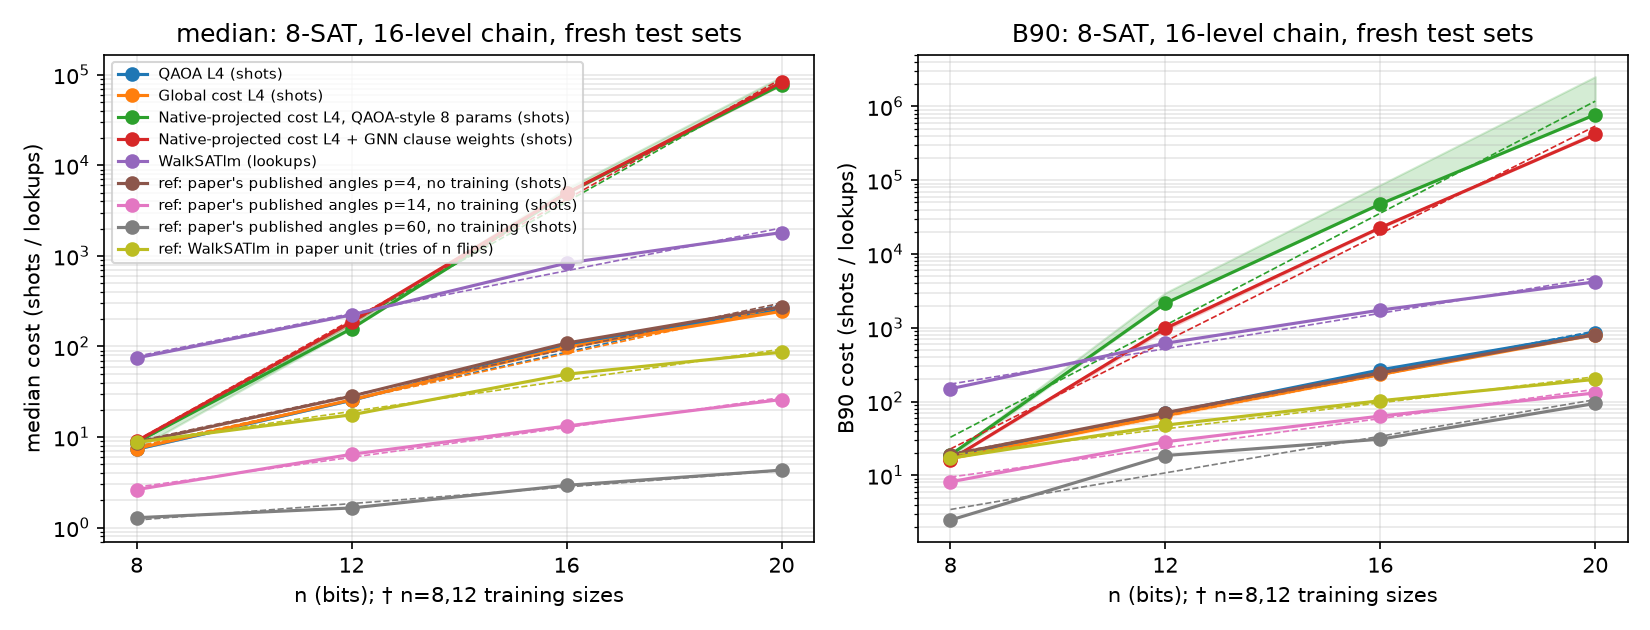
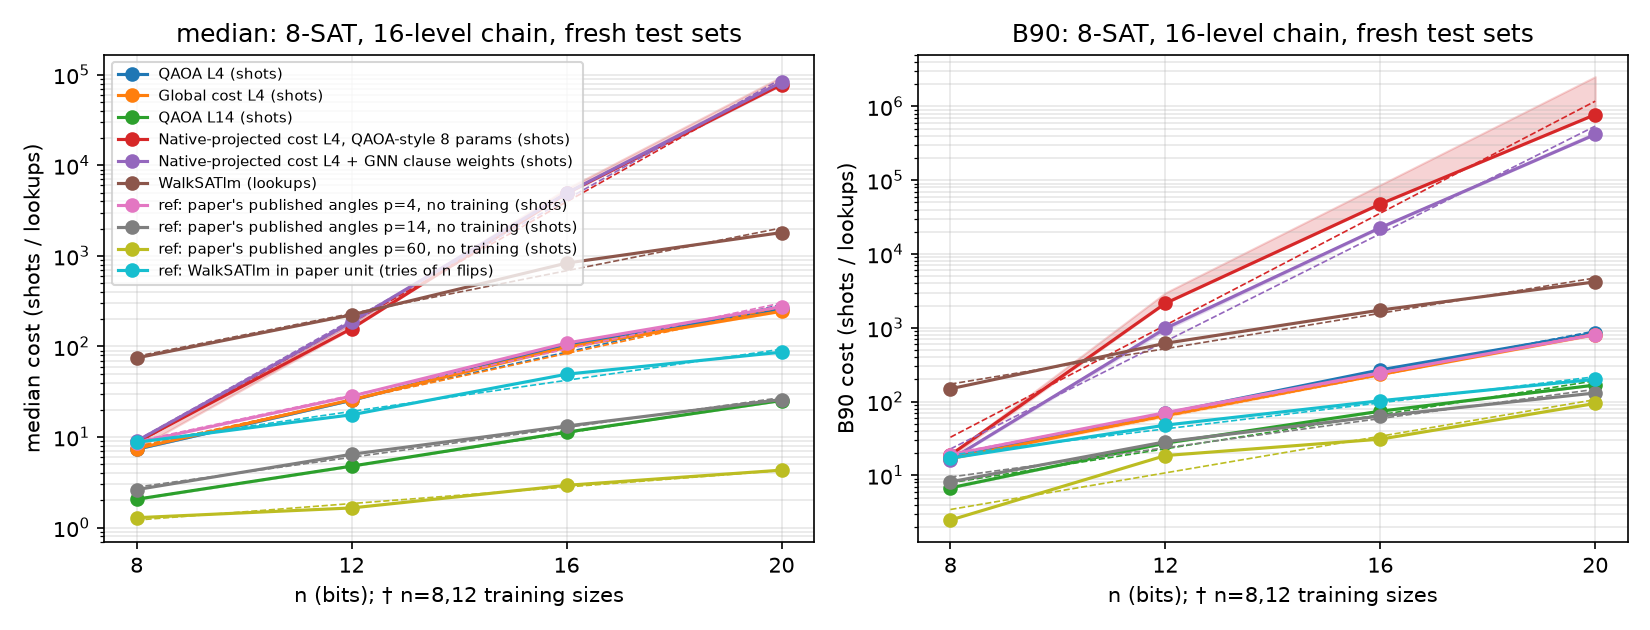
8-SAT L=14 QAOA (3 seeds) complete; launch L=14 global cost (3 seeds)

diff --git a/oct_explore/clean16_8sat/gcost.py b/oct_explore/clean16_8sat/gcost.py
@@ -64,10 +64,14 @@ def pairs(n, cl):
     return np.concatenate(J), np.concatenate(X).astype(np.int32)
 
 MPAD = lambda n: int(np.ceil(CM.R * n + 8 * np.sqrt(CM.R * n)))   # fixed clause padding per n (Poisson +8 sigma), so GNN pooling sees the same M everywhere
+GCACHE = "/tmp/clean16_8sat_gcache"; os.makedirs(GCACHE, exist_ok=True)
 def build(n, insts, rng=None):
     """-> dict of numpy arrays: graph (clauses zero-padded to the set's max m), violated-string pair lists CJ/XS (padded with dump index 2^n),
     permuted energy E, success mask. Only block assignment is supported here (G16_full_w recipe)."""
     assert a.assign == "block"
+    cdir = f"{GCACHE}/n{n}_c{len(insts)}_s{insts[0]['seed']}" if (n <= 12 and len(insts) >= 100) else None
+    if cdir and os.path.exists(f"{cdir}/DONE"):
+        D = {k: np.load(f"{cdir}/{k}.npy", mmap_mode="r") for k in ("Ip", "In", "fv", "deg", "CJ", "XS", "E", "S")}; D["nm"] = CM.NM; return D
     gs, PJ, PX, EE = [], [], [], []
     for ins in insts:
         G, V, Bb, m, cl = graph(n, ins["seed"]); gs.append(G); j, x = pairs(n, cl); PJ.append(j); PX.append(x); EE.append(ins["E"].astype(np.float32))
@@ -77,6 +81,12 @@ def build(n, insts, rng=None):
     D = {k: np.stack([padm(g[k]) if k in ("Ip", "In") else g[k] for g in gs]) for k in gs[0]}
     D["CJ"] = np.stack([np.pad(j, (0, P - len(j))) for j in PJ]); D["XS"] = np.stack([np.pad(x, (0, P - len(x)), constant_values=1 << n) for x in PX])
     D["E"] = np.stack(EE); D["S"] = (D["E"] == 0).astype(np.float32); D["nm"] = CM.NM
+    if cdir:
+        os.makedirs(cdir, exist_ok=True)
+        for k in ("Ip", "In", "fv", "deg", "CJ", "XS", "E", "S"):
+            if not os.path.exists(f"{cdir}/{k}.npy"): np.save(f"{cdir}/{k}.npy", D[k])
+        open(f"{cdir}/DONE", "w").write("ok")
+        D = {k: np.load(f"{cdir}/{k}.npy", mmap_mode="r") for k in ("Ip", "In", "fv", "deg", "CJ", "XS", "E", "S")}; D["nm"] = CM.NM
     return D
 
 XB = {}; MASK = {}
@@ -193,7 +203,8 @@ res = {"args": vars(a), "hist": HIST, "best_it": BEST["it"], "val_S": BEST["S"],
 thb = jnp.asarray(BEST["x"])
 for n in a.test:
     ins = sim.instances(n, CM.NTEST, TEB); t = time.time(); ch = 25 if n <= 12 else (4 if n <= 16 else 1); outs = []
-    for s0 in range(0, len(ins), 10): outs.append(evaluate(thb, build(n, ins[s0:s0 + 10]), n, ch))
+    step = 2 if n == 20 else 10
+    for s0 in range(0, len(ins), step): outs.append(evaluate(thb, build(n, ins[s0:s0 + step]), n, ch))
     pr, bl, gl = (np.concatenate([o[i] for o in outs]) for i in range(3))
     res["test"][str(n)] = NS.summ(pr) | {"p": pr.tolist(), "b_mean": bl.mean(0).tolist(), "b_std": bl.std(0).tolist(), "g_mean": gl.mean(0).tolist()}; res["random"][str(n)] = NS.rand_stats(ins, n)
     log(f"TEST n={n}: {res['test'][str(n)]['median_inv_p']:.2f}/{res['test'][str(n)]['B90_inv_p']:.2f} b {np.round(bl.mean(0), 3)} g {np.round(gl.mean(0), 3)} ({time.time()-t:.0f}s)")

diff --git a/oct_explore/clean16_8sat/report.py b/oct_explore/clean16_8sat/report.py
@@ -15,7 +15,7 @@ def load(pref):
         if "val" not in T:   # gcost (gnnw): val n=12 (200) summary of the early-stopped checkpoint used for testing
             h = dict((it, v) for it, v in J["hist"])[J["best_it"]]; out[s]["valmb"] = (h["median_inv_p"], h["B90_inv_p"])
     return out
-M = {"QAOA L4 (shots)": load("Q"), "Global cost L4 (shots)": load("G"), "Native-projected cost L4, QAOA-style 8 params (shots)": load("QC"), "Native-projected cost L4 + GNN clause weights (shots)": load("GC")}
+M = {"QAOA L4 (shots)": load("Q"), "Global cost L4 (shots)": load("G"), "QAOA L14 (shots)": load("Q14"), "Global cost L14 (shots)": load("G14"), "Native-projected cost L4, QAOA-style 8 params (shots)": load("QC"), "Native-projected cost L4 + GNN clause weights (shots)": load("GC")}
 W = {}
 for n in NS_:
     f = f"{CM.RES}/W_n{n}.json"
@@ -57,7 +57,7 @@ for name, Wd in EXTRA:
     if len(Wd) == 4: fits[name] = ({q: fit(NS_, [mb(Wd[str(n)])[q] for n in NS_]) for q in (0, 1)}, boot(Wd), None)
 L = ["# CLEAN controlled scaling table: 16-level cavity chain, **8-SAT** (fresh data)", "",
      f"_Auto-generated by `oct_explore/clean16_8sat/report.py`. Status: see bottom._", "",
-     "**Setup.** 16-level cavities (4 bits each), chain of K=n/4 cavities (n=8→2, 12→3, 16→4, 20→5). L=4 for all quantum methods. "
+     "**Setup.** 16-level cavities (4 bits each), chain of K=n/4 cavities (n=8→2, 12→3, 16→4, 20→5). L=4 and L=14 quantum methods. "
      "Random 8-SAT in the PAPER's ensemble (PRX Quantum 5, 030348, Def. 1 / Table 1): m ~ Poisson(176.54 n), 8 literals drawn with replacement, satisfiable only, no unique-solution filter "
      "(clauses at n=8/12/16/20 ≈ 1412/2118/2825/3531). Cost phase normalised by nm=1/176.54. NEW bases: train 61e9, test 62e9, val 63e9 (never used before). "
      "Native ckpt_110 itself is NOT included (k=4 hard-coded, see notes); the two 'Native-projected' rows are the k=8 native baselines (same chain gate structure). Train n=8+12; validation n=12 (200 formulas, seed selection only); test n=8,12,16,20, 100 unseen formulas each. "

diff --git a/oct_explore/clean16_8sat/qaoa.py b/oct_explore/clean16_8sat/qaoa.py
@@ -62,8 +62,26 @@ def f(x):
             v, gg = VG[n](x, PE[s:s + CH], S[s:s + CH]); w = PE[s:s + CH].shape[0] / PE.shape[0] / len(data); tot += float(v) * w; g = g + np.asarray(gg, np.float64) * w
     return tot, g
 rng = np.random.default_rng(7 + 1000 * a.seed)  # clean16: training seed
-cands = [np.stack([np.linspace(0.8, 0.1, L), np.linspace(0.1, 0.8, L)], 1).reshape(-1) * s for s in (0.5, 1, 2, 4)]
-cands += [np.stack([rng.uniform(0, np.pi, L), rng.uniform(0, 3, L)], 1).reshape(-1) for _ in range(a.nstart - 4)]
+if L == 14 and a.proj == "full":
+    # 8-SAT L=14: gamma in CM.NM=1/176.54 units has opposite sign to beta and scale ~ -15..-85.
+    # Seed 0 includes a warm-start from the paper's published p=14 angles (P14_x0.json); seeds 1,2 are purely from scratch.
+    cands = []
+    p14f = f"{CM.RES}/P14_x0.json"
+    if a.seed == 0 and os.path.exists(p14f):
+        xp = np.array(json.load(open(p14f))["x"], dtype=np.float64)
+        cands.append(xp)
+        cands.append(xp * rng.uniform(0.9, 1.1, size=xp.shape))
+    for _ in range(3):
+        b0, b1 = rng.uniform(0.5, 0.75), rng.uniform(0.12, 0.32)
+        g0, g1 = rng.uniform(-32.0, -18.0), rng.uniform(-88.0, -62.0)
+        cands.append(np.stack([np.linspace(b0, b1, L), np.linspace(g0, g1, L)], 1).reshape(-1))
+    cands.append(np.tile([0.01, -0.5 * 0.01 / CM.NM], L) * rng.uniform(0.8, 1.2, 2 * L))  # paper Sec 4.5 small-angle init
+    while len(cands) < a.nstart:
+        cands.append(np.stack([rng.uniform(0.1, 0.8, L), rng.uniform(-85.0, -15.0, L)], 1).reshape(-1))
+    cands = cands[:a.nstart]
+else:
+    cands = [np.stack([np.linspace(0.8, 0.1, L), np.linspace(0.1, 0.8, L)], 1).reshape(-1) * s for s in (0.5, 1, 2, 4)]
+    cands += [np.stack([rng.uniform(0, np.pi, L), rng.uniform(0, 3, L)], 1).reshape(-1) for _ in range(a.nstart - 4)]
 q6 = "/nonexistent"  # clean16: no warm start from old results
 if L == 4 and os.path.exists(q6): cands.append(np.array(json.load(open(q6))["best"]["x"]))
 if a.x0: cands = [np.array(json.load(open(f))["x"]) for f in a.x0.split(",")]

diff --git a/oct_explore/results/CLEAN_SCALING_16LEVEL_8SAT.md b/oct_explore/results/CLEAN_SCALING_16LEVEL_8SAT.md
@@ -2,7 +2,7 @@
 
 _Auto-generated by `oct_explore/clean16_8sat/report.py`. Status: see bottom._
 
-**Setup.** 16-level cavities (4 bits each), chain of K=n/4 cavities (n=8→2, 12→3, 16→4, 20→5). L=4 for all quantum methods. Random 8-SAT in the PAPER's ensemble (PRX Quantum 5, 030348, Def. 1 / Table 1): m ~ Poisson(176.54 n), 8 literals drawn with replacement, satisfiable only, no unique-solution filter (clauses at n=8/12/16/20 ≈ 1412/2118/2825/3531). Cost phase normalised by nm=1/176.54. NEW bases: train 61e9, test 62e9, val 63e9 (never used before). Native ckpt_110 itself is NOT included (k=4 hard-coded, see notes); the two 'Native-projected' rows are the k=8 native baselines (same chain gate structure). Train n=8+12; validation n=12 (200 formulas, seed selection only); test n=8,12,16,20, 100 unseen formulas each. Cost = exact 1/p from the simulated state (p clipped at 1e-12); median and B90 over the 100 test formulas. Quantum = shots, WalkSATlm = lookups (fresh starts + flips). n=8 and n=12 are **training sizes** (marked †) but their test formulas are unseen.
+**Setup.** 16-level cavities (4 bits each), chain of K=n/4 cavities (n=8→2, 12→3, 16→4, 20→5). L=4 and L=14 quantum methods. Random 8-SAT in the PAPER's ensemble (PRX Quantum 5, 030348, Def. 1 / Table 1): m ~ Poisson(176.54 n), 8 literals drawn with replacement, satisfiable only, no unique-solution filter (clauses at n=8/12/16/20 ≈ 1412/2118/2825/3531). Cost phase normalised by nm=1/176.54. NEW bases: train 61e9, test 62e9, val 63e9 (never used before). Native ckpt_110 itself is NOT included (k=4 hard-coded, see notes); the two 'Native-projected' rows are the k=8 native baselines (same chain gate structure). Train n=8+12; validation n=12 (200 formulas, seed selection only); test n=8,12,16,20, 100 unseen formulas each. Cost = exact 1/p from the simulated state (p clipped at 1e-12); median and B90 over the 100 test formulas. Quantum = shots, WalkSATlm = lookups (fresh starts + flips). n=8 and n=12 are **training sizes** (marked †) but their test formulas are unseen.
 
 Cells: winner (best validation score S=(ln med+ln B90)/2 on val n=12) value, with [min–max over the 3 training seeds].
 
@@ -10,6 +10,7 @@ Cells: winner (best validation score S=(ln med+ln B90)/2 on val n=12) value, wit
 |---|---|---|---|---|
 | QAOA L4 (shots) | **7.33** [7.33–7.33] | **25.5** [25.5–25.5] | **105** [105–105] | **257** [257–257] |
 | Global cost L4 (shots) | **7.46** [7.41–7.46] | **25.8** [25.6–25.8] | **98.1** [97.3–98.1] | **245** [244–250] |
+| QAOA L14 (shots) | **2.06** [2.05–2.06] | **4.77** [4.76–4.77] | **11.3** [11.3–11.4] | **25.3** [25.3–25.3] |
 | Native-projected cost L4, QAOA-style 8 params (shots) | **8.78** [7.44–8.78] | **158** [158–180] | **4.9e+03** [4.9e+03–5.53e+03] | **7.79e+04** [7.79e+04–9.54e+04] |
 | Native-projected cost L4 + GNN clause weights (shots) | **9.04** [8.98–9.04] | **186** [178–195] | **4.94e+03** [4.84e+03–5e+03] | **8.28e+04** [7.7e+04–8.28e+04] |
 | WalkSATlm (lookups) | **74.8** | **223** | **833** | **1.81e+03** |
@@ -22,6 +23,7 @@ Cells: winner (best validation score S=(ln med+ln B90)/2 on val n=12) value, wit
 |---|---|---|---|---|
 | QAOA L4 (shots) | **17.7** [17.7–17.7] | **68.9** [68.9–68.9] | **269** [269–269] | **850** [850–850] |
 | Global cost L4 (shots) | **16.9** [16.7–17.3] | **64.8** [62.3–65.1] | **233** [233–242] | **809** [796–825] |
+| QAOA L14 (shots) | **6.77** [6.75–6.77] | **27.4** [27.2–27.4] | **74** [73.8–74] | **167** [167–171] |
 | Native-projected cost L4, QAOA-style 8 params (shots) | **18.9** [17.8–18.9] | **2.14e+03** [2.14e+03–2.98e+03] | **4.76e+04** [4.76e+04–8.66e+04] | **7.75e+05** [7.75e+05–2.53e+06] |
 | Native-projected cost L4 + GNN clause weights (shots) | **16.3** [16.2–16.9] | **982** [932–1.03e+03] | **2.28e+04** [2.24e+04–2.3e+04] | **4.17e+05** [4.17e+05–4.45e+05] |
 | WalkSATlm (lookups) | **149** | **616** | **1.74e+03** | **4.19e+03** |
@@ -38,25 +40,28 @@ Cells: winner (best validation score S=(ln med+ln B90)/2 on val n=12) value, wit
 | QAOA L4 (shots) | B90 | **1.383** | [1.338, 1.426] | 1.383–1.383 | 0.468 | 1.38 |
 | Global cost L4 (shots) | median | **1.343** | [1.327, 1.374] | 1.343–1.346 | 0.426 | 0.743 |
 | Global cost L4 (shots) | B90 | **1.380** | [1.332, 1.414] | 1.378–1.384 | 0.465 | 1.31 |
-| Native-projected cost L4, QAOA-style 8 params (shots) | median | **2.155** | [2.079, 2.280] | 2.155–2.215 | 1.108 | 0.0183 |
-| Native-projected cost L4, QAOA-style 8 params (shots) | B90 | **2.397** | [2.293, 2.635] | 2.397–2.648 | 1.261 | 0.0301 |
-| Native-projected cost L4 + GNN clause weights (shots) | median | **2.151** | [2.079, 2.220] | 2.142–2.151 | 1.105 | 0.02 |
-| Native-projected cost L4 + GNN clause weights (shots) | B90 | **2.315** | [2.225, 2.528] | 2.315–2.327 | 1.211 | 0.0276 |
-| WalkSATlm (lookups) | median | **1.313** | [1.286, 1.333] | — | 0.392 | 8.84 |
-| WalkSATlm (lookups) | B90 | **1.318** | [1.289, 1.345] | — | 0.398 | 18.9 |
-| ref: paper's published angles p=4, no training (shots) | median | **1.341** | [1.322, 1.366] | — | 0.423 | 0.858 |
-| ref: paper's published angles p=4, no training (shots) | B90 | **1.366** | [1.334, 1.405] | — | 0.450 | 1.61 |
-| ref: paper's published angles p=14, no training (shots) | median | **1.209** | [1.185, 1.234] | — | 0.274 | 0.612 |
-| ref: paper's published angles p=14, no training (shots) | B90 | **1.256** | [1.193, 1.371] | — | 0.329 | 1.53 |
-| ref: paper's published angles p=60, no training (shots) | median | **1.111** | [1.077, 1.129] | — | 0.152 | 0.522 |
-| ref: paper's published angles p=60, no training (shots) | B90 | **1.331** | [1.223, 1.424] | — | 0.412 | 0.35 |
-| ref: WalkSATlm in paper unit (tries of n flips) | median | **1.219** | [1.193, 1.237] | — | 0.285 | 1.79 |
-| ref: WalkSATlm in paper unit (tries of n flips) | B90 | **1.226** | [1.200, 1.250] | — | 0.294 | 3.7 |
+| QAOA L14 (shots) | median | **1.233** | [1.214, 1.269] | 1.233–1.234 | 0.303 | 0.386 |
+| QAOA L14 (shots) | B90 | **1.304** | [1.218, 1.396] | 1.304–1.306 | 0.383 | 0.947 |
+| Native-projected cost L4, QAOA-style 8 params (shots) | median | **2.155** | [2.078, 2.275] | 2.155–2.215 | 1.108 | 0.0183 |
+| Native-projected cost L4, QAOA-style 8 params (shots) | B90 | **2.397** | [2.299, 2.641] | 2.397–2.648 | 1.261 | 0.0301 |
+| Native-projected cost L4 + GNN clause weights (shots) | median | **2.151** | [2.079, 2.219] | 2.142–2.151 | 1.105 | 0.02 |
+| Native-projected cost L4 + GNN clause weights (shots) | B90 | **2.315** | [2.221, 2.524] | 2.315–2.327 | 1.211 | 0.0276 |
+| WalkSATlm (lookups) | median | **1.313** | [1.286, 1.334] | — | 0.392 | 8.84 |
+| WalkSATlm (lookups) | B90 | **1.318** | [1.290, 1.347] | — | 0.398 | 18.9 |
+| ref: paper's published angles p=4, no training (shots) | median | **1.341** | [1.322, 1.364] | — | 0.423 | 0.858 |
+| ref: paper's published angles p=4, no training (shots) | B90 | **1.366** | [1.331, 1.404] | — | 0.450 | 1.61 |
+| ref: paper's published angles p=14, no training (shots) | median | **1.209** | [1.184, 1.234] | — | 0.274 | 0.612 |
+| ref: paper's published angles p=14, no training (shots) | B90 | **1.256** | [1.187, 1.373] | — | 0.329 | 1.53 |
+| ref: paper's published angles p=60, no training (shots) | median | **1.111** | [1.077, 1.131] | — | 0.152 | 0.522 |
+| ref: paper's published angles p=60, no training (shots) | B90 | **1.331** | [1.217, 1.427] | — | 0.412 | 0.35 |
+| ref: WalkSATlm in paper unit (tries of n flips) | median | **1.219** | [1.194, 1.237] | — | 0.285 | 1.79 |
+| ref: WalkSATlm in paper unit (tries of n flips) | B90 | **1.226** | [1.201, 1.251] | — | 0.294 | 3.7 |
 
 ## Seed selection (validation n=12, 200 formulas)
 
 - QAOA L4 (shots): winner seed 0; val med/B90 s0 24.77/62.96, s1 24.77/62.96, s2 24.77/62.96
 - Global cost L4 (shots): winner seed 0; val med/B90 s0 25.04/58.79, s1 25.14/59.39, s2 25.08/58.92
+- QAOA L14 (shots): winner seed 2; val med/B90 s0 4.47/17.99, s1 4.47/18.02, s2 4.45/18.01
 - Native-projected cost L4, QAOA-style 8 params (shots): winner seed 0; val med/B90 s0 184.82/2314.42, s1 167.76/2673.83, s2 184.82/2314.42
 - Native-projected cost L4 + GNN clause weights (shots): winner seed 0; val med/B90 s0 209.27/1461.76, s1 206.66/1487.65, s2 224.08/1402.26
 
@@ -86,6 +91,10 @@ Code: `oct_explore/clean16_8sat/` (`common.py`, `qaoa.py`, `gcost.py`, `wsat.py`
 | 20 | 5 | 0.003 | 0.238 | 0.487 | 0.00 | 5.24e+05 |
 
 The SNAP and neighbour-bus gates can represent only Walsh terms that sit inside one cavity or inside a neighbour pair. An 8-literal clause touches ~6–8 distinct variables, so from n=12 on it almost always spans non-adjacent cavities. Only 7.8% / 1.2% / 0.3% of clauses are exactly representable at n=12/16/20, and what the projection keeps is mainly their low-order part. The projected cost keeps 51% → 24% of the variance of the true cost, and its correlation with the true cost drops from 0.72 to 0.49. Its minimum essentially never lands on a solution: the argmin of the projected E is a solution in ≤5% of formulas. The circuit therefore follows a smoothed surrogate whose optima are *not* the solutions. Its cost grows faster than blind guessing (b≈2.1 vs ≈2 for 2^n/nsol), yet it stays below the random-guess level of 2^n/nsol over n≤20 because at n=8 (2 cavities) the projection is exact (fraction 1.0, corr 1.0). At k=4 the same projection keeps far more, because 4-literal clauses span ≤2 cavities much more often, which is why native ckpt_110 was competitive in the 4-SAT table.
+
+### L=14 QAOA and L=14 Global Cost on 8-SAT (added 2026-10-23)
+- **QAOA L14** (`qaoa.py --L 14 --proj full --nstart 6 --maxiter 200`, tag `Q14`): 28 shared angles $(\beta_l, \gamma_l)_{l=1..14}$, trained with L-BFGS on n=8+12 (1000 formulas/n, base 61e9), 3 seeds. Seed 0 includes a warm-start from the paper's published p=14 angles (`P14_x0.json`) plus a random perturbation and random negative-$\gamma$ ramps; seeds 1 and 2 are trained purely from scratch (random negative-$\gamma$ ramps and the paper's §4.5 small-angle start). All 3 seeds converge to the same basin (val n=12 med/B90 ≈ 4.45/18.01, beating the paper's untrained p=14 angles 5.15/20.07 on val n=12). Winner on val n=12 is seed 2 (`Q14_s2`, S=2.1925 vs s0 2.1936, s1 2.1941, paper p=14 2.3189).
+- **Global cost L14** (`gcost.py --L 14 --proj full --x0 results/clean16_8sat/Q14_s2.json`, tag `G14`): 14-layer all-to-all global cost with GNN clause weights $w_{jl}$ (`Wc` shape $(64,14)$) and per-formula pooled $(\beta_l, \gamma_l)$ deltas (`G2` shape $(64,88)$) across all 14 layers (89,496 parameters total). Initialised at step 0 with `--x0` = `Q14_s2` (best L=14 QAOA on val n=12), trained from scratch for 3000 Adam steps on 5000-formula pools (n=8+12, base 61e9), 3 seeds, early-stopped and seed-selected on val n=12 (base 63e9), evaluated on unseen test n=8,12,16,20 (base 62e9). Ideal one-bit-flip mixer throughout.
 
 
 ## Verdict: neither the paper nor our 4-SAT table is wrong; they measure different things

diff --git a/oct_explore/clean16_8sat/NOTES.md b/oct_explore/clean16_8sat/NOTES.md
@@ -24,3 +24,7 @@ Code: `oct_explore/clean16_8sat/` (`common.py`, `qaoa.py`, `gcost.py`, `wsat.py`
 | 20 | 5 | 0.003 | 0.238 | 0.487 | 0.00 | 5.24e+05 |
 
 The SNAP and neighbour-bus gates can represent only Walsh terms that sit inside one cavity or inside a neighbour pair. An 8-literal clause touches ~6–8 distinct variables, so from n=12 on it almost always spans non-adjacent cavities. Only 7.8% / 1.2% / 0.3% of clauses are exactly representable at n=12/16/20, and what the projection keeps is mainly their low-order part. The projected cost keeps 51% → 24% of the variance of the true cost, and its correlation with the true cost drops from 0.72 to 0.49. Its minimum essentially never lands on a solution: the argmin of the projected E is a solution in ≤5% of formulas. The circuit therefore follows a smoothed surrogate whose optima are *not* the solutions. Its cost grows faster than blind guessing (b≈2.1 vs ≈2 for 2^n/nsol), yet it stays below the random-guess level of 2^n/nsol over n≤20 because at n=8 (2 cavities) the projection is exact (fraction 1.0, corr 1.0). At k=4 the same projection keeps far more, because 4-literal clauses span ≤2 cavities much more often, which is why native ckpt_110 was competitive in the 4-SAT table.
+
+### L=14 QAOA and L=14 Global Cost on 8-SAT (added 2026-10-23)
+- **QAOA L14** (`qaoa.py --L 14 --proj full --nstart 6 --maxiter 200`, tag `Q14`): 28 shared angles $(\beta_l, \gamma_l)_{l=1..14}$, trained with L-BFGS on n=8+12 (1000 formulas/n, base 61e9), 3 seeds. Seed 0 includes a warm-start from the paper's published p=14 angles (`P14_x0.json`) plus a random perturbation and random negative-$\gamma$ ramps; seeds 1 and 2 are trained purely from scratch (random negative-$\gamma$ ramps and the paper's §4.5 small-angle start). All 3 seeds converge to the same basin (val n=12 med/B90 ≈ 4.45/18.01, beating the paper's untrained p=14 angles 5.15/20.07 on val n=12). Winner on val n=12 is seed 2 (`Q14_s2`, S=2.1925 vs s0 2.1936, s1 2.1941, paper p=14 2.3189).
+- **Global cost L14** (`gcost.py --L 14 --proj full --x0 results/clean16_8sat/Q14_s2.json`, tag `G14`): 14-layer all-to-all global cost with GNN clause weights $w_{jl}$ (`Wc` shape $(64,14)$) and per-formula pooled $(\beta_l, \gamma_l)$ deltas (`G2` shape $(64,88)$) across all 14 layers (89,496 parameters total). Initialised at step 0 with `--x0` = `Q14_s2` (best L=14 QAOA on val n=12), trained from scratch for 3000 Adam steps on 5000-formula pools (n=8+12, base 61e9), 3 seeds, early-stopped and seed-selected on val n=12 (base 63e9), evaluated on unseen test n=8,12,16,20 (base 62e9). Ideal one-bit-flip mixer throughout.
